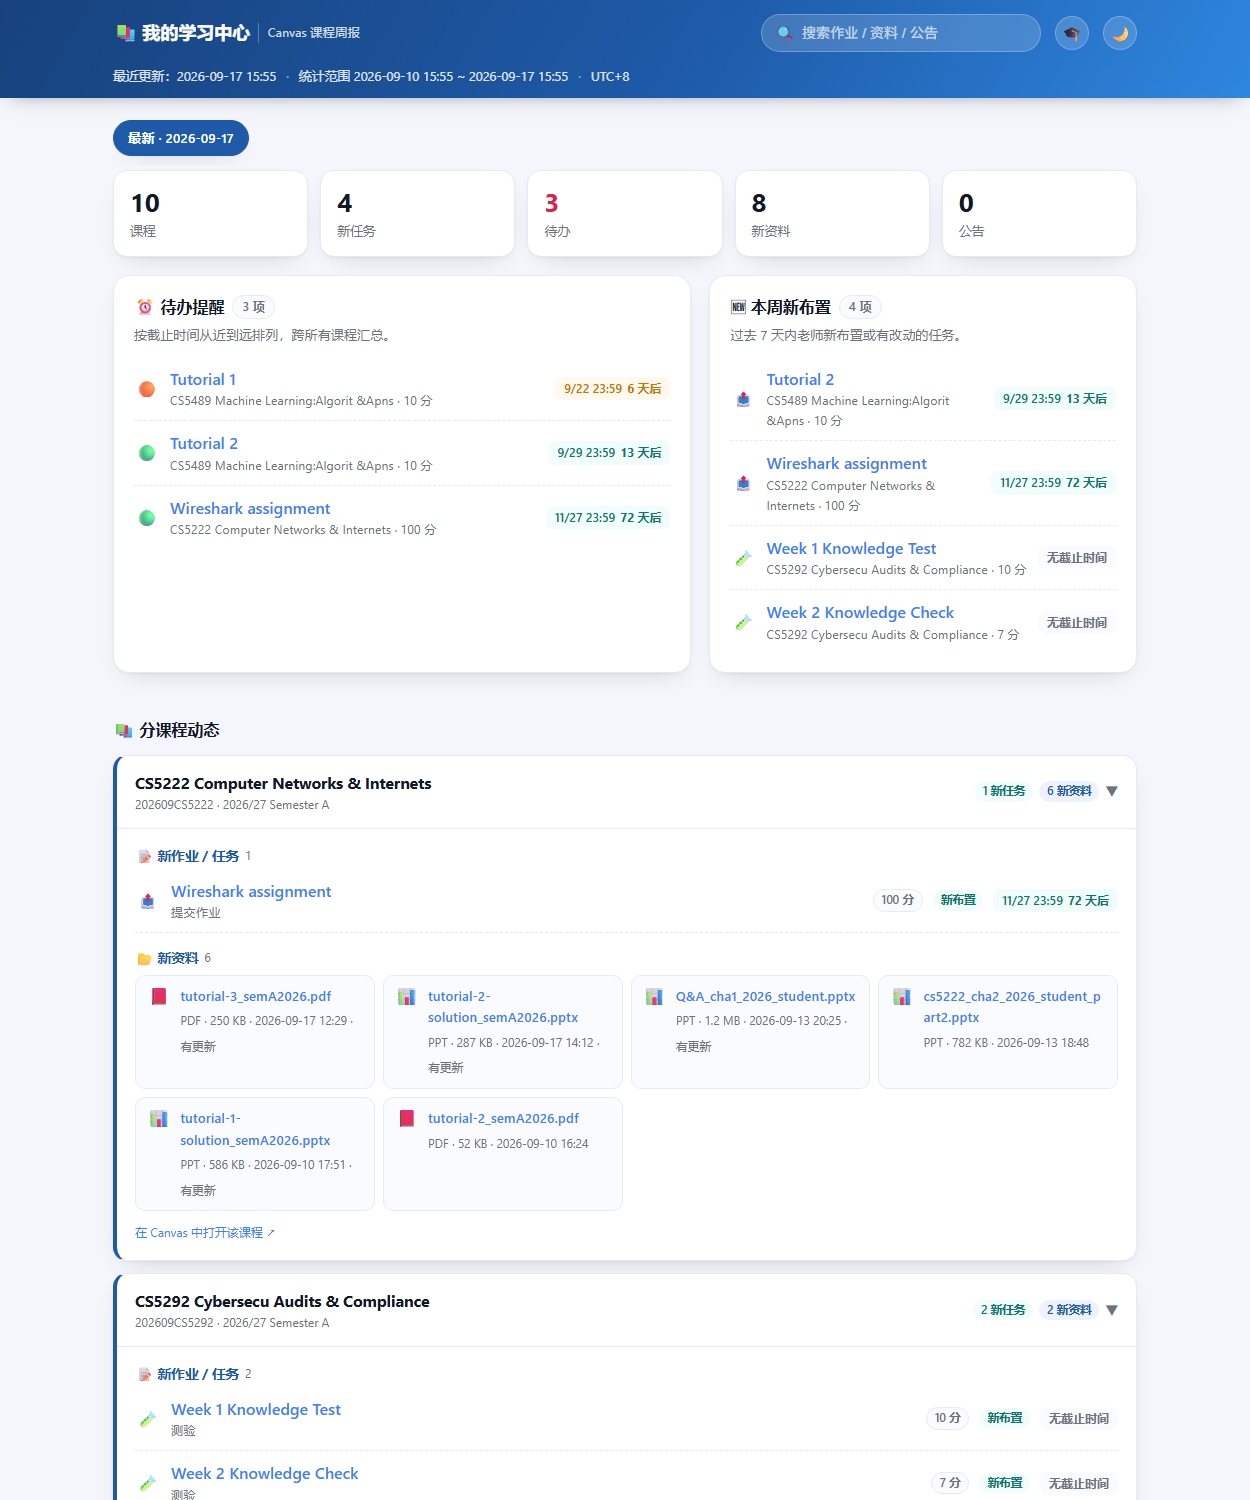
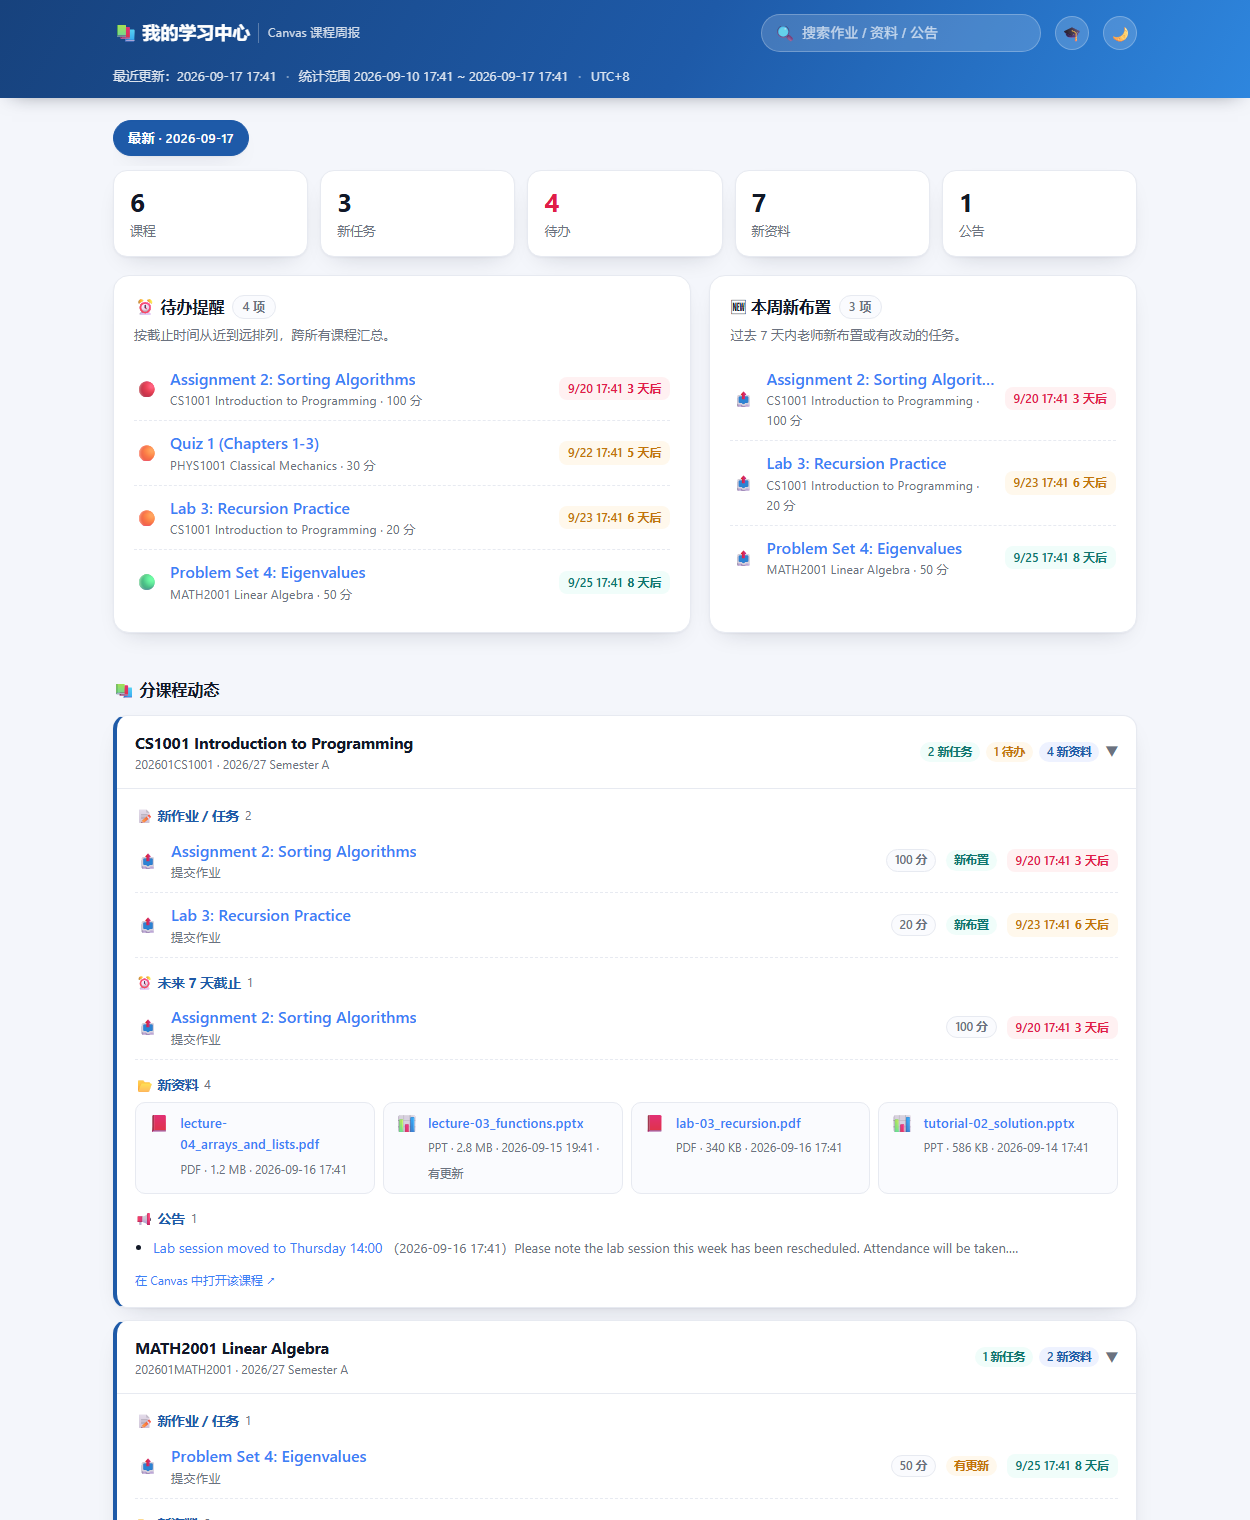
截图改用虚构示例数据（移除真实课程信息），README 补充算法公开/数据私有说明

diff --git a/README.md b/README.md
@@ -4,7 +4,7 @@
 
 定时抓取你在 Canvas 上的全部课程动态，生成中文周报保存到本地，并自动发布到一个属于你的 GitHub Pages 学习网站。适用于任何使用 Canvas 的学校（默认示例为香港城市大学，改一行配置即可适配你自己的学校）。
 
-> 效果预览（作者本人的实例）：https://famalhaut04.github.io/learning-hub/
+> 下方截图为**虚构示例数据**的界面预览（不含任何真实用户的课程信息）。
 
 ## ✨ 功能
 
@@ -80,9 +80,18 @@ docs/screenshots/            # 界面截图
 
 ## 🔐 安全与隐私（重要）
 
-- **本仓库不包含任何人的 Canvas 凭证。** `canvas_config.json`（含 Token 的真实配置）已被 `.gitignore` 排除，需要你自己创建并填入自己的 Token。
-- Token 只保存在你本机，等同于账号凭证——不要提交、不要分享。若怀疑泄露，到 Canvas「账户 → 设置」删除该令牌即立即失效。
-- 学习网站仓库里只有页面代码与课程任务摘要（作业名/截止时间/文件名），不含 Token。
+**算法公开，数据私有** —— 本仓库只有通用代码与模板，**不含任何使用者的课程数据**。每个人的课程信息都留在他自己的电脑和自己的仓库里：
+
+| 内容 | 位置 | 可见性 |
+|---|---|---|
+| 脚本、页面模板、文档 | 本仓库（公开） | 所有人可见，随便分享 |
+| `canvas_config.json`（含 Token） | 使用者本机 | 仅自己，`.gitignore` 已排除，不会入库 |
+| 课程数据仓库 `learning-hub` | 使用者自己的 GitHub 仓库 | **可设为私有**，课程信息仅自己可见 |
+
+- **完全不想公开网页？** 把网站仓库设为 Private（免费账号的 Pages 会随之停用），改为**本地看板**：在仓库目录运行 `python -m http.server 8137`，浏览器打开 `http://localhost:8137/`；同一 WiFi 下手机也能访问。周报脚本与数据更新不受影响，`git push` 仍可作为云端备份。详见[部署指南第 5 步](docs/部署指南.md)。
+- **本仓库不包含任何人的 Canvas 凭证。** `canvas_config.json` 需由使用者自己创建并填入自己的 Token（从 `config/canvas_config.example.json` 复制）。
+- Token 只保存在使用者本机，等同于账号凭证——不要提交、不要分享。若怀疑泄露，到 Canvas「账户 → 设置」删除该令牌即立即失效。
+- 课程数据仓库里只有页面代码与课程任务摘要（作业名/截止时间/文件名），不含 Token，也不含作业正文。
 - 不小心把 Token 提交进了某个仓库？立即吊销旧 Token，必要时删除该仓库重建。
 
 ## ❓ 常见问题
